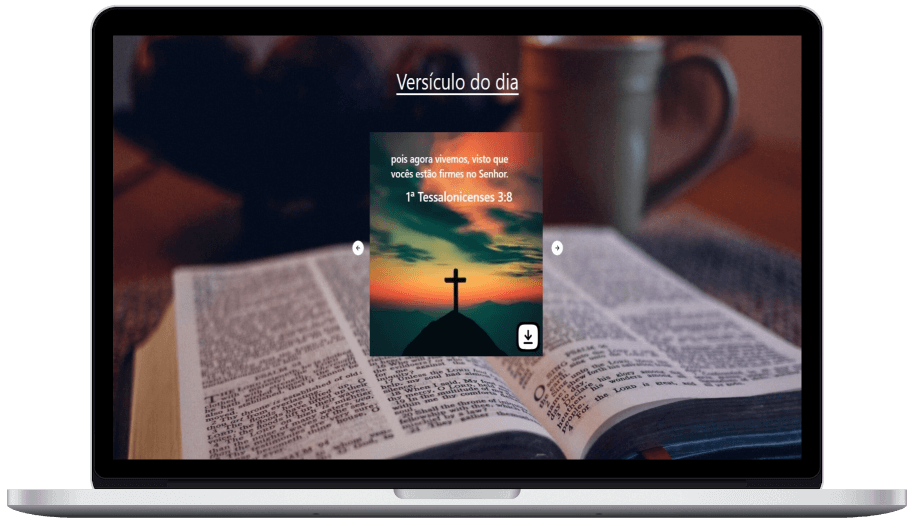
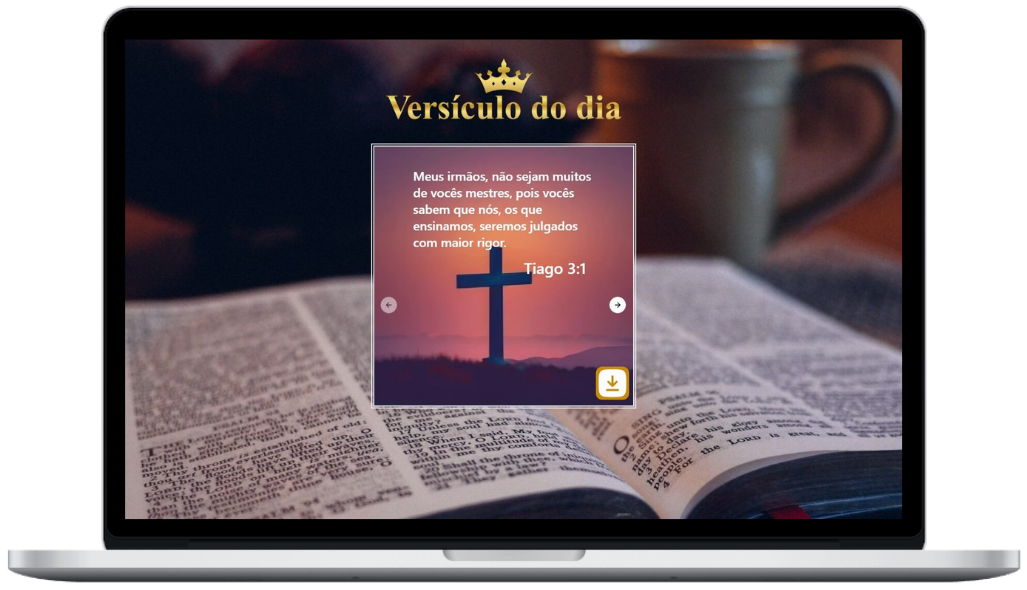
updated README.md project picture and video

diff --git a/src/App.tsx b/src/App.tsx
@@ -13,10 +13,13 @@ import logo from "./assets/logo.png";
 function App() {
   return (
     <div className="w-full h-[100vh] justify-center bg-[url('./assets/bible-wallpaper.jpg')] flex-col items-center bg-cover">
-      <img src={logo} className="w-[300px] md:w-[500px] pt-4 pb-6 m-auto" />
+      <img
+        src={logo}
+        className="w-[300px] md:w-[400px] 2xl:w-[500px] pt-4 pb-6 m-auto"
+      />
       <div className="border-[6px] border-double w-fit m-auto flex justify-center items-center align-middle">
         <Carousel>
-          <CarouselContent className="md:w-[500px] md:h-[500px] relative w-[300px] h-[300px]">
+          <CarouselContent className="2xl:w-[500px] 2xl:h-[500px] md:w-[400px] md:h-[400px] relative w-[300px] h-[300px]">
             {images.map((image, index) => (
               <CarouselItem key={index}>
                 <VerseCard imageURL={image} />

diff --git a/src/components/VerseCard.tsx b/src/components/VerseCard.tsx
@@ -31,7 +31,7 @@ export function VerseCard({ imageURL }: { imageURL: string }) {
         </div>
       </div>
       <button
-        className={` right-2 md:right-2 md:w-16 w-11 bg-yellow-600 md:top-[425px] top-[250px] absolute rounded-xl`}
+        className={` right-2 md:right-2 md:w-16 w-11 bg-yellow-600 2xl:top-[425px] md:top-[330px] top-[250px] absolute rounded-xl`}
         onClick={() =>
           exportComponentAsJPEG(divRef, { fileName: "versiculo-do-dia.jpg" })
         }

diff --git a/README.md b/README.md
@@ -50,7 +50,7 @@
     <tbody>
       <tr>
         <td>
-          <a href="https://www.youtube.com/watch?v=R3j4l_jiSWY">
+          <a href="https://www.youtube.com/watch?v=l8ZulYERrbU">
             <img src="https://img.shields.io/badge/YouTube-FF0000?style=for-the-badge&logo=youtube&logoColor=white" />
           </a>
         </td>  
